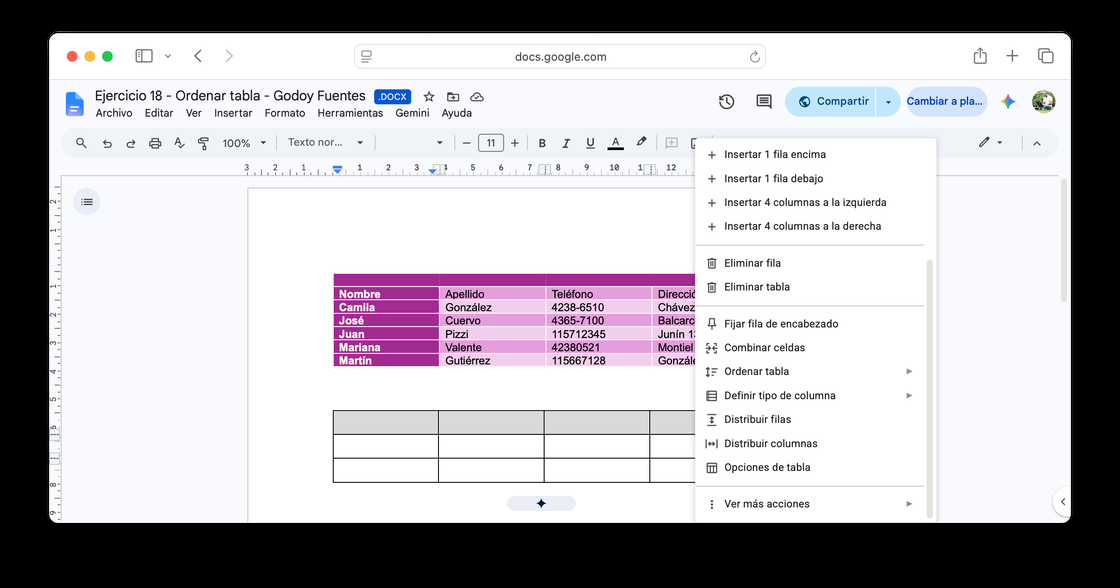
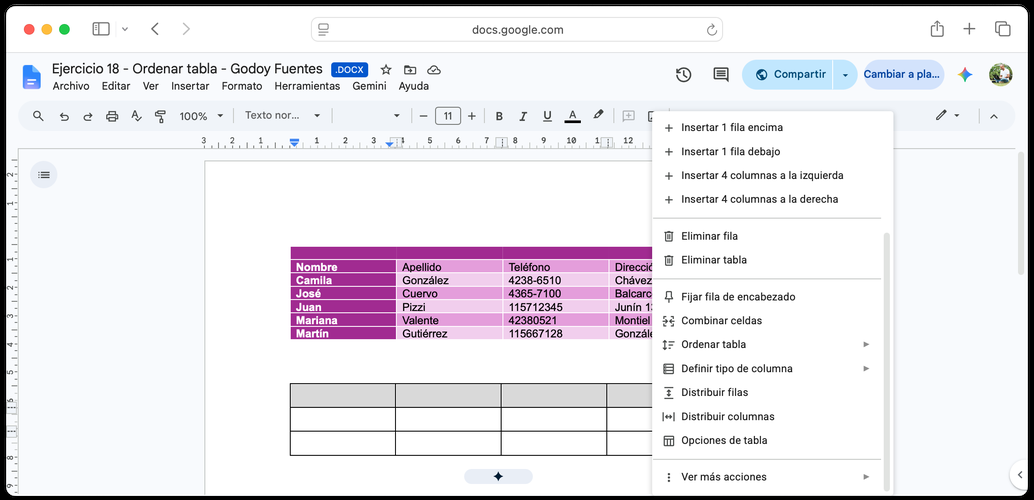
Actualizar Clase 02 (Guía Visual y fragmento Moodle), guía docente, captura de Clase 04 e index.html

diff --git a/index.html b/index.html
@@ -904,6 +904,11 @@
             <span style="font-size:10px;font-weight:600;color:#4b4959;line-height:1.25;">Gemini</span>
             <span style="font-size:10px;color:#8d8b9c;font-family:'SF Mono',Menlo,Consolas,monospace;line-height:1.3;word-break:break-all;">gemini.google.com</span>
           </a>
+                            <a href="https://claude.ai" target="_blank" rel="noopener" style="display:flex;flex-direction:column;align-items:center;gap:7px;text-decoration:none;width:clamp(64px,20vw,78px);text-align:center;">
+            <img src="https://marcosxhernandez.github.io/unq-moodle/img/apps/Anthropic%20-%20Claude.png" alt="Claude" style="width:40px;height:40px;object-fit:contain;border-radius:10px;background:#fff;box-shadow:0 0 0 1px rgba(17,17,17,.08);">
+            <span style="font-size:10px;font-weight:600;color:#4b4959;line-height:1.25;">Claude</span>
+            <span style="font-size:10px;color:#8d8b9c;font-family:'SF Mono',Menlo,Consolas,monospace;line-height:1.3;word-break:break-all;">claude.ai</span>
+          </a>
                             <a href="https://copilot.microsoft.com" target="_blank" rel="noopener" style="display:flex;flex-direction:column;align-items:center;gap:7px;text-decoration:none;width:clamp(64px,20vw,78px);text-align:center;">
[1 lines of base64/hex data omitted]
             <span style="font-size:10px;font-weight:600;color:#4b4959;line-height:1.25;">Copilot</span>
@@ -924,27 +929,27 @@
             <span style="font-size:10px;font-weight:600;color:#4b4959;line-height:1.25;">Qwen</span>
             <span style="font-size:10px;color:#8d8b9c;font-family:'SF Mono',Menlo,Consolas,monospace;line-height:1.3;word-break:break-all;">chat.qwen.ai</span>
           </a>
+                            <a href="https://kimi.com" target="_blank" rel="noopener" style="display:flex;flex-direction:column;align-items:center;gap:7px;text-decoration:none;width:clamp(64px,20vw,78px);text-align:center;">
+            <img src="https://marcosxhernandez.github.io/unq-moodle/img/apps/Moonshot%20AI%20-%20Kimi.png" alt="Kimi" style="width:40px;height:40px;object-fit:contain;border-radius:10px;background:#fff;box-shadow:0 0 0 1px rgba(17,17,17,.08);">
+            <span style="font-size:10px;font-weight:600;color:#4b4959;line-height:1.25;">Kimi</span>
+            <span style="font-size:10px;color:#8d8b9c;font-family:'SF Mono',Menlo,Consolas,monospace;line-height:1.3;word-break:break-all;">kimi.com</span>
+          </a>
                         </div>
                     </div>
                 </div>
             </div>
         </details>
-        <!-- ═══════ PRESENTE (sin entrega nueva) ═══════ -->
+        <!-- ═══════ PRESENTE (unificado) ═══════ -->
         <div style="margin:0 4px 16px;background:linear-gradient(180deg,#e9f7f0,#fff 55%);border:1px solid #cdeadb;border-radius:16px;padding:22px 24px;">
             <div style="display:flex;align-items:center;gap:8px;font-size:11px;font-weight:700;letter-spacing:.1em;text-transform:uppercase;color:#0f7a5c;margin:0 0 8px;">✅ Así se registra tu presente</div>
-            <p style="margin:0 0 16px;font-size:13px;line-height:1.7;color:#4b4959;">Hoy no subís ningún link nuevo al campus: reviso tu documento directo en la subcarpeta "Clase 02" de tu carpeta "Informática - UNQ", ya compartida desde la Clase 01. Para que lo encuentre sin vueltas, dejalo exactamente así:</p>
+            <p style="margin:0 0 16px;font-size:13px;line-height:1.7;color:#4b4959;">Subís un solo link nuevo al campus: el de tu documento.</p>
             <div style="display:flex;flex-wrap:wrap;gap:14px;">
                 <div style="flex:1 1 220px;background:#fff;border:1px solid #cdeadb;border-radius:14px;padding:16px 18px;display:flex;flex-direction:column;gap:10px;">
                     <div style="width:24px;height:24px;border-radius:50%;background:#0f7a5c;color:#fff;font-size:11px;font-weight:700;display:flex;align-items:center;justify-content:center;">1</div>
-                    <div style="font-size:14px;font-weight:700;color:#15141b;">📄 Nombre del archivo</div>
-                    <div style="font-size:11px;color:#4b4959;">Tiene que ser exactamente:</div>
-                    <div><code style="font-family:'SF Mono',Menlo,Consolas,monospace;font-size:.9em;background:#eef3fe;border:1px solid #d5e4fd;padding:1px 6px;border-radius:5px;color:#2b569f;">Documento Base - V01</code> <span role="button" tabindex="0" title="Copiar el nombre del archivo" onclick="navigator.clipboard.writeText('Documento Base - V01');this.innerText='✅ Copiado';var el=this;setTimeout(function(){el.innerText='📋 Copiar'},1600)" style="cursor:pointer;display:inline-flex;align-items:center;font-size:11px;font-weight:700;color:#2b569f;background:#eef3fe;border:1px solid #d5e4fd;padding:2px 8px;border-radius:999px;margin-left:2px;">📋 Copiar</span></div>
-                </div>
-                <div style="flex:1 1 220px;background:#fff;border:1px solid #cdeadb;border-radius:14px;padding:16px 18px;display:flex;flex-direction:column;gap:10px;">
-                    <div style="width:24px;height:24px;border-radius:50%;background:#0f7a5c;color:#fff;font-size:11px;font-weight:700;display:flex;align-items:center;justify-content:center;">2</div>
-                    <div style="font-size:14px;font-weight:700;color:#15141b;">🕓 Versión nombrada</div>
-                    <div style="font-size:11px;color:#4b4959;">Archivo → Historial de versiones → Asignar nombre. Escribí:</div>
-                    <div><code style="font-family:'SF Mono',Menlo,Consolas,monospace;font-size:.9em;background:#eef3fe;border:1px solid #d5e4fd;padding:1px 6px;border-radius:5px;color:#2b569f;">Entrega Clase 02</code> <span role="button" tabindex="0" title="Copiar el nombre de la versión" onclick="navigator.clipboard.writeText('Entrega Clase 02');this.innerText='✅ Copiado';var el=this;setTimeout(function(){el.innerText='📋 Copiar'},1600)" style="cursor:pointer;display:inline-flex;align-items:center;font-size:11px;font-weight:700;color:#2b569f;background:#eef3fe;border:1px solid #d5e4fd;padding:2px 8px;border-radius:999px;margin-left:2px;">📋 Copiar</span></div>
+                    <div style="font-size:14px;font-weight:700;color:#15141b;">📤 Link del documento</div>
+                    <div style="font-size:11px;color:#4b4959;">Copiá el enlace de <code style="font-family:'SF Mono',Menlo,Consolas,monospace;font-size:.95em;">Documento Base - V01</code> (Compartir → Copiar enlace) y subilo acá. No hace falta volver a compartirlo: ya está en la carpeta que compartiste en la Clase 01.</div>
+                    <!-- TODO Marcos: reemplazar id=PENDIENTE por el ID real de la Tarea "Clase 02" en Qoodle (mod/assign/view.php?id=...) una vez creada -->
+                    <a href="https://qoodle.uvq.edu.ar/mod/assign/view.php?id=PENDIENTE&amp;action=editsubmission" target="_blank" rel="noopener" style="margin-top:auto;align-self:flex-start;display:inline-flex;align-items:center;gap:7px;font-size:12px;font-weight:700;letter-spacing:.03em;text-transform:uppercase;color:#fff;background:#0f7a5c;text-decoration:none;padding:10px 18px;border-radius:999px;white-space:nowrap;">Subir link</a>
                 </div>
             </div>
         </div>

diff --git a/moodle/Clase 02 - Arquitectura del documento profesional.html b/moodle/Clase 02 - Arquitectura del documento profesional.html
@@ -155,6 +155,11 @@
             <span style="font-size:10px;font-weight:600;color:#4b4959;line-height:1.25;">Gemini</span>
             <span style="font-size:10px;color:#8d8b9c;font-family:'SF Mono',Menlo,Consolas,monospace;line-height:1.3;word-break:break-all;">gemini.google.com</span>
           </a>
+                            <a href="https://claude.ai" target="_blank" rel="noopener" style="display:flex;flex-direction:column;align-items:center;gap:7px;text-decoration:none;width:clamp(64px,20vw,78px);text-align:center;">
+            <img src="https://marcosxhernandez.github.io/unq-moodle/img/apps/Anthropic%20-%20Claude.png" alt="Claude" style="width:40px;height:40px;object-fit:contain;border-radius:10px;background:#fff;box-shadow:0 0 0 1px rgba(17,17,17,.08);">
+            <span style="font-size:10px;font-weight:600;color:#4b4959;line-height:1.25;">Claude</span>
+            <span style="font-size:10px;color:#8d8b9c;font-family:'SF Mono',Menlo,Consolas,monospace;line-height:1.3;word-break:break-all;">claude.ai</span>
+          </a>
                             <a href="https://copilot.microsoft.com" target="_blank" rel="noopener" style="display:flex;flex-direction:column;align-items:center;gap:7px;text-decoration:none;width:clamp(64px,20vw,78px);text-align:center;">
[1 lines of base64/hex data omitted]
             <span style="font-size:10px;font-weight:600;color:#4b4959;line-height:1.25;">Copilot</span>
@@ -175,27 +180,27 @@
             <span style="font-size:10px;font-weight:600;color:#4b4959;line-height:1.25;">Qwen</span>
             <span style="font-size:10px;color:#8d8b9c;font-family:'SF Mono',Menlo,Consolas,monospace;line-height:1.3;word-break:break-all;">chat.qwen.ai</span>
           </a>
+                            <a href="https://kimi.com" target="_blank" rel="noopener" style="display:flex;flex-direction:column;align-items:center;gap:7px;text-decoration:none;width:clamp(64px,20vw,78px);text-align:center;">
+            <img src="https://marcosxhernandez.github.io/unq-moodle/img/apps/Moonshot%20AI%20-%20Kimi.png" alt="Kimi" style="width:40px;height:40px;object-fit:contain;border-radius:10px;background:#fff;box-shadow:0 0 0 1px rgba(17,17,17,.08);">
+            <span style="font-size:10px;font-weight:600;color:#4b4959;line-height:1.25;">Kimi</span>
+            <span style="font-size:10px;color:#8d8b9c;font-family:'SF Mono',Menlo,Consolas,monospace;line-height:1.3;word-break:break-all;">kimi.com</span>
+          </a>
                         </div>
                     </div>
                 </div>
             </div>
         </details>
-        <!-- ═══════ PRESENTE (sin entrega nueva) ═══════ -->
+        <!-- ═══════ PRESENTE (unificado) ═══════ -->
         <div style="margin:0 4px 16px;background:linear-gradient(180deg,#e9f7f0,#fff 55%);border:1px solid #cdeadb;border-radius:16px;padding:22px 24px;">
             <div style="display:flex;align-items:center;gap:8px;font-size:11px;font-weight:700;letter-spacing:.1em;text-transform:uppercase;color:#0f7a5c;margin:0 0 8px;">✅ Así se registra tu presente</div>
-            <p style="margin:0 0 16px;font-size:13px;line-height:1.7;color:#4b4959;">Hoy no subís ningún link nuevo al campus: reviso tu documento directo en la subcarpeta "Clase 02" de tu carpeta "Informática - UNQ", ya compartida desde la Clase 01. Para que lo encuentre sin vueltas, dejalo exactamente así:</p>
+            <p style="margin:0 0 16px;font-size:13px;line-height:1.7;color:#4b4959;">Subís un solo link nuevo al campus: el de tu documento.</p>
             <div style="display:flex;flex-wrap:wrap;gap:14px;">
                 <div style="flex:1 1 220px;background:#fff;border:1px solid #cdeadb;border-radius:14px;padding:16px 18px;display:flex;flex-direction:column;gap:10px;">
                     <div style="width:24px;height:24px;border-radius:50%;background:#0f7a5c;color:#fff;font-size:11px;font-weight:700;display:flex;align-items:center;justify-content:center;">1</div>
-                    <div style="font-size:14px;font-weight:700;color:#15141b;">📄 Nombre del archivo</div>
-                    <div style="font-size:11px;color:#4b4959;">Tiene que ser exactamente:</div>
-                    <div><code style="font-family:'SF Mono',Menlo,Consolas,monospace;font-size:.9em;background:#eef3fe;border:1px solid #d5e4fd;padding:1px 6px;border-radius:5px;color:#2b569f;">Documento Base - V01</code> <span role="button" tabindex="0" title="Copiar el nombre del archivo" onclick="navigator.clipboard.writeText('Documento Base - V01');this.innerText='✅ Copiado';var el=this;setTimeout(function(){el.innerText='📋 Copiar'},1600)" style="cursor:pointer;display:inline-flex;align-items:center;font-size:11px;font-weight:700;color:#2b569f;background:#eef3fe;border:1px solid #d5e4fd;padding:2px 8px;border-radius:999px;margin-left:2px;">📋 Copiar</span></div>
-                </div>
-                <div style="flex:1 1 220px;background:#fff;border:1px solid #cdeadb;border-radius:14px;padding:16px 18px;display:flex;flex-direction:column;gap:10px;">
-                    <div style="width:24px;height:24px;border-radius:50%;background:#0f7a5c;color:#fff;font-size:11px;font-weight:700;display:flex;align-items:center;justify-content:center;">2</div>
-                    <div style="font-size:14px;font-weight:700;color:#15141b;">🕓 Versión nombrada</div>
-                    <div style="font-size:11px;color:#4b4959;">Archivo → Historial de versiones → Asignar nombre. Escribí:</div>
-                    <div><code style="font-family:'SF Mono',Menlo,Consolas,monospace;font-size:.9em;background:#eef3fe;border:1px solid #d5e4fd;padding:1px 6px;border-radius:5px;color:#2b569f;">Entrega Clase 02</code> <span role="button" tabindex="0" title="Copiar el nombre de la versión" onclick="navigator.clipboard.writeText('Entrega Clase 02');this.innerText='✅ Copiado';var el=this;setTimeout(function(){el.innerText='📋 Copiar'},1600)" style="cursor:pointer;display:inline-flex;align-items:center;font-size:11px;font-weight:700;color:#2b569f;background:#eef3fe;border:1px solid #d5e4fd;padding:2px 8px;border-radius:999px;margin-left:2px;">📋 Copiar</span></div>
+                    <div style="font-size:14px;font-weight:700;color:#15141b;">📤 Link del documento</div>
+                    <div style="font-size:11px;color:#4b4959;">Copiá el enlace de <code style="font-family:'SF Mono',Menlo,Consolas,monospace;font-size:.95em;">Documento Base - V01</code> (Compartir → Copiar enlace) y subilo acá. No hace falta volver a compartirlo: ya está en la carpeta que compartiste en la Clase 01.</div>
+                    <!-- TODO Marcos: reemplazar id=PENDIENTE por el ID real de la Tarea "Clase 02" en Qoodle (mod/assign/view.php?id=...) una vez creada -->
+                    <a href="https://qoodle.uvq.edu.ar/mod/assign/view.php?id=PENDIENTE&amp;action=editsubmission" target="_blank" rel="noopener" style="margin-top:auto;align-self:flex-start;display:inline-flex;align-items:center;gap:7px;font-size:12px;font-weight:700;letter-spacing:.03em;text-transform:uppercase;color:#fff;background:#0f7a5c;text-decoration:none;padding:10px 18px;border-radius:999px;white-space:nowrap;">Subir link</a>
                 </div>
             </div>
         </div>

diff --git a/clases/Clase 02 - Arquitectura del documento profesional.html b/clases/Clase 02 - Arquitectura del documento profesional.html
@@ -154,10 +154,10 @@
 
     <div class="callout" data-type="idea">
       <p class="callout-label">💡 Idea clave</p>
-      <p>El autoguardado de Docs no reemplaza la buena nomenclatura. "Documento sin título" guardado en la raíz de Drive es tan difícil de encontrar como un archivo suelto en cualquier escritorio. Nombrá el documento en cuanto lo creás — con el mismo formato que ya usás desde la Clase 01: <code>Nombre del archivo - Versión</code>.</p>
+      <p>El autoguardado de Docs no reemplaza la buena nomenclatura. "Documento sin título" guardado en la raíz de Drive es tan difícil de encontrar como un archivo suelto en cualquier escritorio. Nombrá el documento en cuanto lo creás, con el mismo formato de siempre: <code>Nombre del archivo - Versión</code>.</p>
     </div>
 
-    <p>No arrancás de una hoja en blanco: el texto que generaste con IA en la Clase 01 es el punto de partida de hoy. En la próxima sección lo preparás y lo ampliás.</p>
+    <p>No arrancás de una hoja en blanco: ya tenés un texto generado con IA como punto de partida. En la próxima sección lo ampliás y lo preparás para pegar.</p>
   </div>
 </section>
 
@@ -168,7 +168,7 @@
     <h2 class="block-title">Generar contenido con IA</h2>
   </div>
   <div class="prose">
-    <p>El texto que trajiste de la Clase 01 es corto — una respuesta de prueba, no un documento. Hoy lo ampliás con un LLM — el mismo que elegiste la clase pasada, comparando precio y uso en la tabla de la Clase 01, o el que prefieras — usando la misma fórmula RTCFL que armaste ahí. Recordá los 5 componentes (Rol, Tarea, Contexto, Formato, Límites) que aprendiste en esa clase: usá el mismo framework ahora para pedir una versión más larga y estructurada sobre el mismo tema.</p>
+    <p>El texto que armaste con IA en la Clase 01 es corto — una respuesta de prueba, no un documento. Hoy lo ampliás con un LLM, el que prefieras, usando la fórmula RTCFL (Rol, Tarea, Contexto, Formato, Límites): pedile una versión más larga y estructurada sobre el mismo tema, con introducción y subtítulos.</p>
 
     <p>Ejemplos de temas según carrera: gestión de RRHH en PyMEs · turismo sostenible en Argentina · comercio exterior con el MERCOSUR · comunicación institucional en redes · diseño de personajes en medios digitales.</p>
 
@@ -181,8 +181,8 @@
         <ol>
           <li>Abrí Drive → carpeta "Informática - UNQ" → creá la subcarpeta "Clase 02" (si todavía no existe) → adentro, creá un Google Doc nuevo: <code>Documento Base - V01</code>.</li>
           <li>Activá el panel de navegación: Ver → Mostrar esquema del documento. Está vacío — el documento recién empieza, todavía sin contenido ni estructura. Se los vas a dar más adelante en esta clase.</li>
-          <li>Abrí el LLM que usaste en la Clase 01 (o el que prefieras) en otra pestaña del navegador.</li>
-          <li>Construí el prompt usando RTCFL, sobre el mismo tema de <code>Texto IA - V01</code> (tu documento de la Clase 01): pedile una versión ampliada, con introducción y tres secciones con subtítulos.</li>
+          <li>Abrí el LLM que prefieras en otra pestaña del navegador.</li>
+          <li>Construí el prompt usando RTCFL, sobre el mismo tema de <code>Texto IA - V01</code>: pedile una versión ampliada, con introducción y tres secciones con subtítulos.</li>
           <li>Copiá todo el texto nuevo que te devolvió el LLM.</li>
           <li>Todavía no lo pegues en Docs — primero leé el próximo bloque.</li>
           <li>Verificá al menos una afirmación del texto con CRAAP o una búsqueda en Google Scholar.</li>
@@ -252,10 +252,10 @@
       <table class="tbl-wide">
         <thead><tr><th>Opción</th><th>Atajo</th><th>Cuándo usarla</th></tr></thead>
         <tbody>
-          <tr><td><svg class="tool-icon"><use href="#ti-align-left"></use></svg>Alinear a la izquierda</td><td><code>Ctrl+Shift+L</code></td><td>Default de casi todo el cuerpo del texto.</td></tr>
-          <tr><td><svg class="tool-icon"><use href="#ti-align-center"></use></svg>Centrar</td><td><code>Ctrl+Shift+E</code></td><td>Títulos cortos, portadas.</td></tr>
-          <tr><td><svg class="tool-icon"><use href="#ti-align-right"></use></svg>Alinear a la derecha</td><td><code>Ctrl+Shift+R</code></td><td>Firmas, fechas, datos al margen.</td></tr>
-          <tr><td><svg class="tool-icon"><use href="#ti-justify"></use></svg>Justificar</td><td><code>Ctrl+Shift+J</code></td><td>Cuerpo de texto académico — pareja los dos márgenes, izquierdo y derecho.</td></tr>
+          <tr><td><svg class="tool-icon"><use href="#ti-align-left"></use></svg>Alinear a la izquierda</td><td><code>Ctrl+Shift+L</code> (Mac: <code>⌘+Shift+L</code>)</td><td>Default de casi todo el cuerpo del texto.</td></tr>
+          <tr><td><svg class="tool-icon"><use href="#ti-align-center"></use></svg>Centrar</td><td><code>Ctrl+Shift+E</code> (Mac: <code>⌘+Shift+E</code>)</td><td>Títulos cortos, portadas.</td></tr>
+          <tr><td><svg class="tool-icon"><use href="#ti-align-right"></use></svg>Alinear a la derecha</td><td><code>Ctrl+Shift+R</code> (Mac: <code>⌘+Shift+R</code>)</td><td>Firmas, fechas, datos al margen.</td></tr>
+          <tr><td><svg class="tool-icon"><use href="#ti-justify"></use></svg>Justificar</td><td><code>Ctrl+Shift+J</code> (Mac: <code>⌘+Shift+J</code>)</td><td>Cuerpo de texto académico — pareja los dos márgenes, izquierdo y derecho.</td></tr>
           <tr><td><svg class="tool-icon"><use href="#ti-indent"></use></svg>Sangría de primera línea</td><td>—</td><td>Formato → Alinear y sangría → Opciones de sangría → Sangría especial → Primera línea.</td></tr>
           <tr><td><svg class="tool-icon"><use href="#ti-line-spacing"></use></svg>Interlineado y espaciado</td><td>—</td><td>Ícono de líneas con flechas, en la barra de herramientas.</td></tr>
         </tbody>
@@ -326,7 +326,7 @@
       </div>
       <div class="prose">
         <ol>
-          <li>En <code>Documento Base - V01</code>, elegí un párrafo del cuerpo del texto y justificalo (<code>Ctrl+Shift+J</code>).</li>
+          <li>En <code>Documento Base - V01</code>, elegí un párrafo del cuerpo del texto y justificalo (<code>Ctrl+Shift+J</code>, Mac: <code>⌘+Shift+J</code>).</li>
           <li>Ponéle negrita a un término clave del texto, y cursiva a una palabra en otro idioma o un título de obra, si hay alguno.</li>
           <li>Seleccioná una oración completa, cortala con <code>Ctrl+X</code> y pegala en otro lugar del mismo párrafo donde tenga más sentido — comprobá que el formato viajó con ella.</li>
           <li>Buscá una imagen relacionada con tu tema, filtrada por licencia Creative Commons (Google Imágenes: Herramientas → Derechos de uso → Con licencia Creative Commons, o en <a href="https://unsplash.com" target="_blank" rel="noopener">Unsplash</a>). Anotá qué licencia tiene. Insertala en el cuerpo del texto (Insertar → Imagen → Subir o Buscar en la Web).</li>
@@ -517,11 +517,11 @@
         <p>No se entrega — es para fijar la mecánica de formato manual de "Formato de texto: la barra de herramientas", con medidas exactas en vez de "a ojo". Es el tipo de ejercicio que te puede tocar en un examen sin IA al lado.</p>
         <ol>
           <li>Abrí un documento nuevo de Google Docs (no el <code>Documento Base - V01</code>) y escribí, de tu puño y letra, dos párrafos cortos sobre cualquier tema que te guste.</li>
-          <li>Escribí un título arriba de todo. Centralo (<code>Ctrl+Shift+E</code>) y aplicale fuente Arial, tamaño 18 y negrita.</li>
+          <li>Escribí un título arriba de todo. Centralo (<code>Ctrl+Shift+E</code>, Mac: <code>⌘+Shift+E</code>) y aplicale fuente Arial, tamaño 18 y negrita.</li>
           <li>En el cuerpo, marcá una palabra clave en negrita (<code>Ctrl+B</code>), otra en cursiva (<code>Ctrl+I</code>) y una frase corta en subrayado (<code>Ctrl+U</code>).</li>
-          <li>Justificá los dos párrafos (<code>Ctrl+Shift+J</code>).</li>
+          <li>Justificá los dos párrafos (<code>Ctrl+Shift+J</code>, Mac: <code>⌘+Shift+J</code>).</li>
           <li>Desde <strong>Formato → Alinear y sangría → Opciones de sangría → Sangría especial → Primera línea</strong>, aplicale exactamente 1,25 cm a cada párrafo — no lo hagas a ojo con la tecla Tab.</li>
-          <li>Al final, escribí tu nombre, aplicale cursiva y alinealo a la derecha (<code>Ctrl+Shift+R</code>).</li>
+          <li>Al final, escribí tu nombre, aplicale cursiva y alinealo a la derecha (<code>Ctrl+Shift+R</code>, Mac: <code>⌘+Shift+R</code>).</li>
           <li>Guardalo como <code>Práctica de formato - Clase 02</code>. No hace falta compartirlo ni subirlo a ningún lado.</li>
         </ol>
       </div>
@@ -541,7 +541,7 @@
     <p>Al principio de la clase planteamos el objetivo: dejar de armar documentos a mano y construir uno con estructura real.</p>
 
     <h3 id="actividades">Actividades</h3>
-    <p>No hay un link nuevo para subir: el documento ya vive en la carpeta compartida desde la Clase 01, y el docente lo revisa ahí directamente.</p>
+    <p>Al final de la clase subís el link de tu <code>Documento Base - V01</code> en la tarea correspondiente del campus — es tu constancia de entrega de hoy.</p>
 
     <div class="table-wrap">
       <table class="check-table">
@@ -557,6 +557,11 @@
           <tr><td class="check-cell"><input type="checkbox" class="checkbox" id="chk-02-9" aria-label="Marcar como hecho"></td><td><label for="chk-02-9">Si modificaste el estilo de un título, todos los títulos del mismo nivel quedaron iguales entre sí (usaste "Actualizar para que coincida", no formato a mano título por título).</label></td></tr>
         </tbody>
       </table>
+    </div>
+
+    <div class="callout" data-type="action">
+      <p class="callout-label">📤 Entregable 1</p>
+      <p>Copiá el link de <code>Documento Base - V01</code> (clic derecho sobre el archivo en Drive → Compartir → Copiar enlace) y subilo en la tarea correspondiente del campus. No hace falta volver a compartirlo: ya está dentro de la carpeta que compartiste en la Clase 01.</p>
     </div>
 
     <h3 id="referencia-rapida">Referencia rápida</h3>

diff --git a/clases/Docente - Guia de actividades - Clases 01-06.html b/clases/Docente - Guia de actividades - Clases 01-06.html
@@ -338,8 +338,8 @@
       <ol>
 <li>Abrí Drive → carpeta "Informática - UNQ" → creá la subcarpeta "Clase 02" (si todavía no existe) → adentro, creá un Google Doc nuevo: <code>Documento Base - V01</code>.</li>
 <li>Activá el panel de navegación: Ver → Mostrar esquema del documento. Está vacío — el documento recién empieza, todavía sin contenido ni estructura. Se los vas a dar más adelante en esta clase.</li>
-<li>Abrí el LLM que usaste en la Clase 01 (o el que prefieras) en otra pestaña del navegador.</li>
-<li>Construí el prompt usando RTCFL, sobre el mismo tema de <code>Texto IA - V01</code> (tu documento de la Clase 01): pedile una versión ampliada, con introducción y tres secciones con subtítulos.</li>
+<li>Abrí el LLM que prefieras en otra pestaña del navegador.</li>
+<li>Construí el prompt usando RTCFL, sobre el mismo tema de <code>Texto IA - V01</code>: pedile una versión ampliada, con introducción y tres secciones con subtítulos.</li>
 <li>Copiá todo el texto nuevo que te devolvió el LLM.</li>
 <li>Todavía no lo pegues en Docs — primero leé el próximo bloque.</li>
 <li>Verificá al menos una afirmación del texto con CRAAP o una búsqueda en Google Scholar.</li>
@@ -377,7 +377,7 @@
     </div>
     <div class="act-steps">
       <ol>
-<li>En <code>Documento Base - V01</code>, elegí un párrafo del cuerpo del texto y justificalo (<code>Ctrl+Shift+J</code>).</li>
+<li>En <code>Documento Base - V01</code>, elegí un párrafo del cuerpo del texto y justificalo (<code>Ctrl+Shift+J</code>, Mac: <code>⌘+Shift+J</code>).</li>
 <li>Ponéle negrita a un término clave del texto, y cursiva a una palabra en otro idioma o un título de obra, si hay alguno.</li>
 <li>Seleccioná una oración completa, cortala con <code>Ctrl+X</code> y pegala en otro lugar del mismo párrafo donde tenga más sentido — comprobá que el formato viajó con ella.</li>
 <li>Buscá una imagen relacionada con tu tema, filtrada por licencia Creative Commons (Google Imágenes: Herramientas → Derechos de uso → Con licencia Creative Commons, o en <a href="https://unsplash.com" rel="noopener" target="_blank">Unsplash</a>). Anotá qué licencia tiene. Insertala en el cuerpo del texto (Insertar → Imagen → Subir o Buscar en la Web).</li>
@@ -432,8 +432,8 @@
 <li>Archivo → Historial de versiones → Ver historial. Observá que cada cambio quedó registrado.</li>
 </ol>
     </div>
-    
-    <p class="act-meta"><b>Insumos del docente:</b> —</p>
+    <div class="act-campus">📤 Entregable 1 (campus): link de <code>Documento Base - V01</code>.</div>
+    <p class="act-meta"><b>Insumos del docente:</b> Tarea creada en el campus para el link (pendiente crear).</p>
   </div>
   <div class="act-card">
     <div class="act-card-head">
@@ -447,18 +447,18 @@
       <p>No se entrega — es para fijar la mecánica de formato manual de "Formato de texto: la barra de herramientas", con medidas exactas en vez de "a ojo". Es el tipo de ejercicio que te puede tocar en un examen sin IA al lado.</p>
 <ol>
 <li>Abrí un documento nuevo de Google Docs (no el <code>Documento Base - V01</code>) y escribí, de tu puño y letra, dos párrafos cortos sobre cualquier tema que te guste.</li>
-<li>Escribí un título arriba de todo. Centralo (<code>Ctrl+Shift+E</code>) y aplicale fuente Arial, tamaño 18 y negrita.</li>
+<li>Escribí un título arriba de todo. Centralo (<code>Ctrl+Shift+E</code>, Mac: <code>⌘+Shift+E</code>) y aplicale fuente Arial, tamaño 18 y negrita.</li>
 <li>En el cuerpo, marcá una palabra clave en negrita (<code>Ctrl+B</code>), otra en cursiva (<code>Ctrl+I</code>) y una frase corta en subrayado (<code>Ctrl+U</code>).</li>
-<li>Justificá los dos párrafos (<code>Ctrl+Shift+J</code>).</li>
+<li>Justificá los dos párrafos (<code>Ctrl+Shift+J</code>, Mac: <code>⌘+Shift+J</code>).</li>
 <li>Desde <strong>Formato → Alinear y sangría → Opciones de sangría → Sangría especial → Primera línea</strong>, aplicale exactamente 1,25 cm a cada párrafo — no lo hagas a ojo con la tecla Tab.</li>
-<li>Al final, escribí tu nombre, aplicale cursiva y alinealo a la derecha (<code>Ctrl+Shift+R</code>).</li>
+<li>Al final, escribí tu nombre, aplicale cursiva y alinealo a la derecha (<code>Ctrl+Shift+R</code>, Mac: <code>⌘+Shift+R</code>).</li>
 <li>Guardalo como <code>Práctica de formato - Clase 02</code>. No hace falta compartirlo ni subirlo a ningún lado.</li>
 </ol>
     </div>
     
     <p class="act-meta"><b>Insumos del docente:</b> — (actividad marcada "Extra")</p>
   </div>
-  <p class="extra"><b>Sin link nuevo al campus:</b> se revisa directo en la carpeta ya compartida. La Actividad 6 es extra y no se entrega.</p>
+  <p class="extra">La Actividad 6 es extra y no se entrega.</p>
 </div>
 
 <div class="clase">
